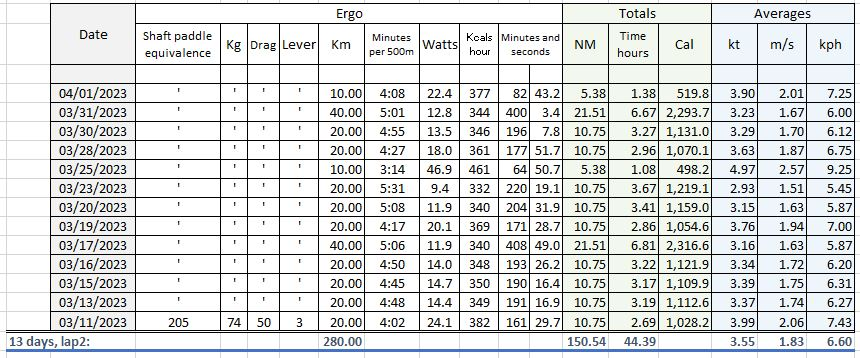
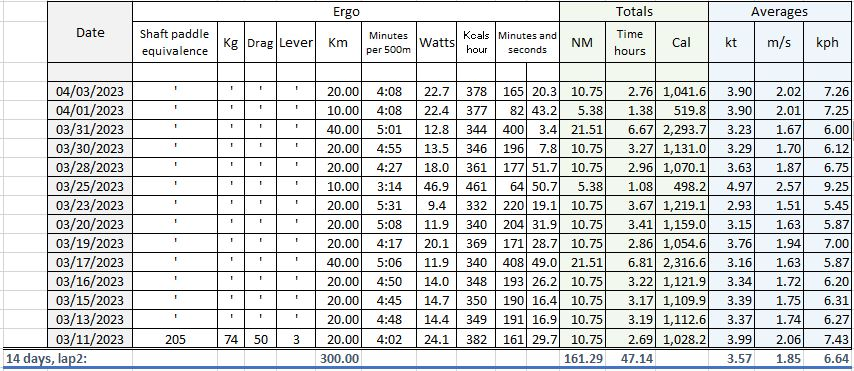
updates

diff --git a/dry-run/log/index.html b/dry-run/log/index.html
@@ -214,11 +214,11 @@ $(document).ready(function(){
 <p>This is not the actual trip. This is just training mapped on chart to have an idea of what the real thing might be.</p>
 </blockquote>
 <blockquote>
-<p>April 1, 2023, lap2</p>
+<p>April 3, 2023, lap2</p>
 </blockquote>
-<p><img src="/img/apr1.JPG" alt="April 1">
+<p><img src="/img/apr3.JPG" alt="April 3">
 <div style="text-align: center">
-13 days on ergo, 150.5 nautical miles, 280 km, lap2
+14 days on ergo, 161 nautical miles, 300 km, lap2
 </div>
 </p>
 <p><img src="/img/Stats2.JPG" alt="Stats">
